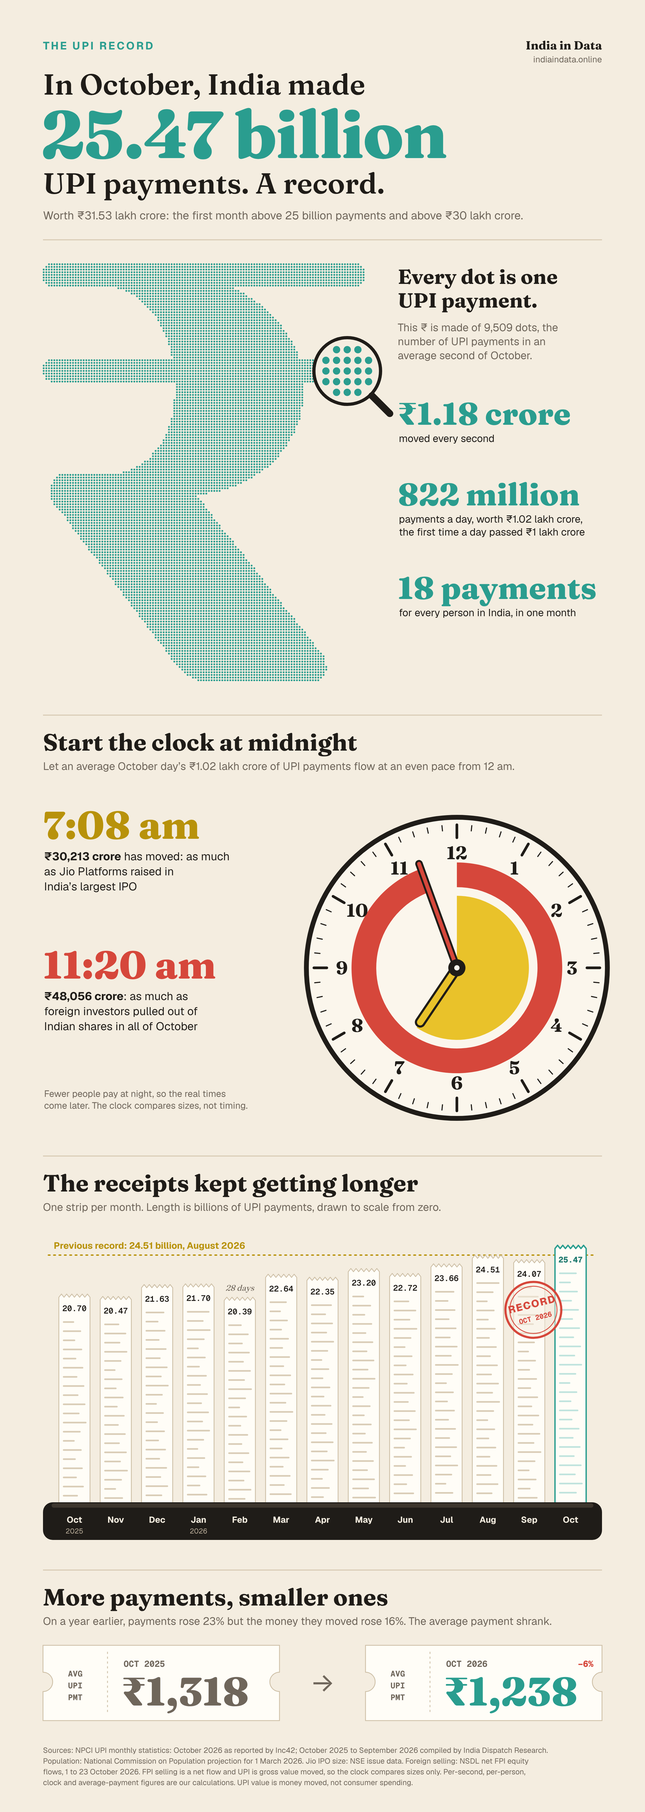
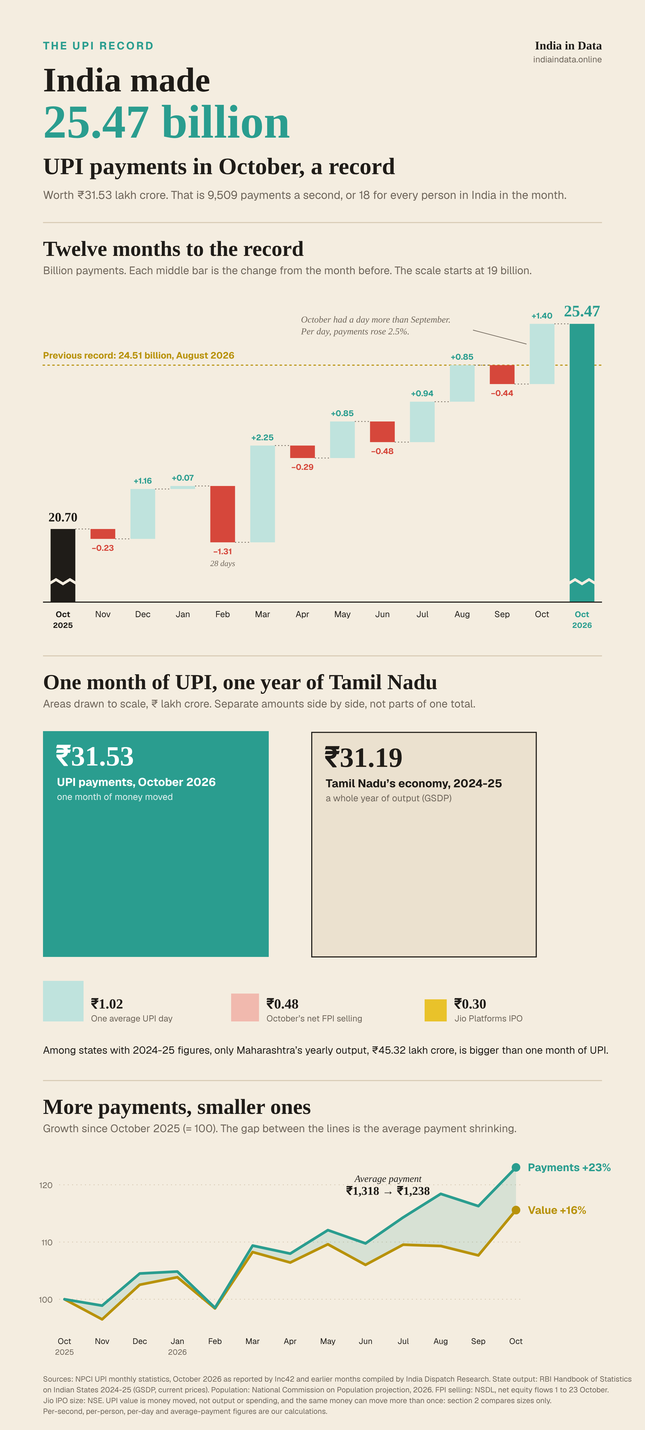
UPI infographic: editorial redesign with waterfall, Tamil Nadu scale squares and index lines
Claude-Session: https://claude.ai/code/session_014CgExXTmhYcHWAfTLX6LU2

Changed region(s): [[0.0625, 0.0, 0.9688, 0.9985], [0.8438, 0.0312, 0.9375, 0.0624]]

diff --git a/src/infographics/UpiRecord.jsx b/src/infographics/UpiRecord.jsx
@@ -1,238 +1,160 @@
 import { forwardRef } from 'react'
 import { UPI_MONTHS } from './upiRecordData.js'
-import { RUPEE_DOTS } from './upiRupeeDots.js'
 import { POP_INDIA, POP_YEARS } from '../data/population.js'
+import { GSDP_CURRENT, YEARS } from '../data/states.js'
 
-// House infographic style (warm paper, serif display), drawn with objects from UPI's own world:
-// a ₹ made of payments, a wall clock, and receipt strips feeding out of a payment printer.
+// Same editorial system as the FPI infographic: warm paper, serif display, one visual idea per section.
 const C = {
-  paper: '#f4ede0', ink: '#1f1c18', mute: '#6f665b', rule: '#d9ccb6', slip: '#fffdf7', slipEdge: '#cdbfa6',
-  teal: '#2a9d8f', tealDeep: '#1f7a6f', tealPale: '#bfe3dd', gold: '#e9c22a', goldDeep: '#b8920b', red: '#d6473b', face: '#fbf6ec',
+  paper: '#f4ede0', ink: '#1f1c18', mute: '#6f665b', rule: '#d9ccb6', cream: '#ebe1cf',
+  teal: '#2a9d8f', tealPale: '#bfe3dd', down: '#d6473b', gold: '#e9c22a', goldDeep: '#b8920b',
 }
-const SERIF = '"Fraunces Variable", Fraunces, Georgia, "Times New Roman", serif'
+const SERIF = 'Fraunces, Georgia, "Times New Roman", serif'
 const SANS = '"Geist Variable", "Helvetica Neue", Arial, sans-serif'
-const MONO = '"Geist Mono Variable", ui-monospace, Menlo, monospace'
 const n0 = (n) => Math.round(n).toLocaleString('en-IN')
+const sign = (v, d = 2) => `${v >= 0 ? '+' : '−'}${Math.abs(v).toFixed(d)}`
 
+const first = UPI_MONTHS[0]
 const last = UPI_MONTHS[UPI_MONTHS.length - 1]
-const yearAgo = UPI_MONTHS[0]
-const prevRecord = UPI_MONTHS.slice(0, -1).reduce((a, b) => (b.vol > a.vol ? b : a))
-const SECS = 31 * 86400
-const perSec = Math.round((last.vol * 1e9) / SECS) // 9,509
-const croreSec = (last.val * 1e5) / SECS // ₹ crore a second
-const DAY_CRORE = 101707 // October average daily value, ₹ crore (NPCI via Inc42)
-const pop2026 = POP_INDIA[POP_YEARS.indexOf(2026)] * 1000 // NCP projection, 1 March 2026
-const perPerson = Math.round((last.vol * 1e9) / pop2026)
-const growthVol = Math.round((last.vol / yearAgo.vol - 1) * 100)
-const growthVal = Math.round((last.val / yearAgo.val - 1) * 100)
+const prev = UPI_MONTHS[UPI_MONTHS.length - 2]
+const record = UPI_MONTHS.slice(0, -1).reduce((a, b) => (b.vol > a.vol ? b : a))
+const perSec = Math.round((last.vol * 1e9) / (31 * 86400))
+const perPerson = Math.round((last.vol * 1e9) / (POP_INDIA[POP_YEARS.indexOf(2026)] * 1000))
+const perDayGrowth = (822 / 802 - 1) * 100 // daily averages as reported (NPCI via Inc42): 822 mn in October, 802 mn in September
+const avgThen = Math.round((first.val * 1e12) / (first.vol * 1e9))
 const avgNow = Math.round((last.val * 1e12) / (last.vol * 1e9))
-const avgThen = Math.round((yearAgo.val * 1e12) / (yearAgo.vol * 1e9))
-const avgDrop = Math.round((1 - avgNow / avgThen) * 100)
 
-// The clock: an average October day's value, flowing evenly from midnight
-const JIO = 30213 // Jio Platforms IPO, ₹ crore (NSE issue data)
-const FPI = 48056 // net FPI selling of Indian shares, 1-23 October 2026, ₹ crore (NSDL)
-const clockTime = (crore) => {
-  const mins = Math.round((crore / DAY_CRORE) * 24 * 60)
-  return { mins, label: `${Math.floor(mins / 60)}:${String(mins % 60).padStart(2, '0')} am` }
-}
-const tJio = clockTime(JIO)
-const tFpi = clockTime(FPI)
-
-if (RUPEE_DOTS.count !== perSec) {
-  // The ₹ is built for this exact number; regenerate upiRupeeDots.js if the data change.
-  console.warn(`UPI infographic: ₹ has ${RUPEE_DOTS.count} dots but the per-second figure is ${perSec}`)
-}
+// Sizes compared in section 2, ₹ lakh crore
+const L = YEARS.length - 1
+const lc = (state) => GSDP_CURRENT[state][L] / 1e7
+const TN = lc('Tamil Nadu'), MH = lc('Maharashtra')
+const DAY = 1.01707 // October average daily UPI value (NPCI via Inc42)
+const FPI = 0.48056 // net FPI selling of Indian shares, 1-23 October 2026 (NSDL)
+const JIO = 0.30213 // Jio Platforms IPO (NSE)
 
 const UpiRecord = forwardRef(function UpiRecord(_, ref) {
-  // ---- the ₹ of dots ----
-  const gx = 80, gy = 488, P = RUPEE_DOTS.pitch
-  const rupeePath = RUPEE_DOTS.runs.map(([x, y, n]) => `M${(gx + x).toFixed(2)},${(gy + y).toFixed(2)}h${((n - 1) * P + P / 2).toFixed(2)}`).join('')
-  const lens = { x: gx + 566, y: gy + 202, r: 62, zoom: 4 }
-  const lensDots = []
-  for (let i = -4; i <= 4; i++) for (let j = -4; j <= 4; j++) {
-    const x = lens.x + i * P * lens.zoom, y = lens.y + j * P * lens.zoom
-    if (Math.hypot(x - lens.x, y - lens.y) < lens.r - 6) lensDots.push([x, y])
-  }
+  // ---- 1. waterfall: Oct 2025 total, twelve monthly changes, Oct 2026 total ----
+  const wf = [{ kind: 'total', label: 'Oct 2025', from: 19, to: first.vol }]
+  for (let i = 1; i < UPI_MONTHS.length; i++) wf.push({ kind: 'change', label: UPI_MONTHS[i].month.split(' ')[0], from: UPI_MONTHS[i - 1].vol, to: UPI_MONTHS[i].vol })
+  wf.push({ kind: 'total', label: 'Oct 2026', from: 19, to: last.vol, hero: true })
+  const slot = 1040 / wf.length, bw = 46, base = 1120, k = 80
+  const Y = (v) => base - (v - 19) * k
+  const bx = (i) => 80 + i * slot + (slot - bw) / 2
 
-  // ---- the clock ----
-  const cx = 850, cy = 1800, R = 280
-  const at = (r, mins) => { // position on a 12-hour face, minutes after midnight
-    const a = (mins / 720) * 2 * Math.PI
-    return [cx + r * Math.sin(a), cy - r * Math.cos(a)]
-  }
-  const wedge = (r, mins) => { const [x, y] = at(r, mins); return `M${cx},${cy} L${cx},${cy - r} A${r},${r} 0 ${mins > 360 ? 1 : 0} 1 ${x},${y} Z` }
-  const band = (r0, r1, mins) => {
-    const [ax, ay] = at(r1, mins), [bx, by] = at(r0, mins), big = mins > 360 ? 1 : 0
-    return `M${cx},${cy - r1} A${r1},${r1} 0 ${big} 1 ${ax},${ay} L${bx},${by} A${r0},${r0} 0 ${big} 0 ${cx},${cy - r0} Z`
-  }
+  // ---- 2. squares to scale ----
+  const s = 420 / Math.sqrt(last.val)
+  const side = (v) => Math.sqrt(v) * s
 
-  // ---- the receipt strips ----
-  const base = 2800, k = 19, sx0 = 100, slot = 1000 / UPI_MONTHS.length, sw = 58
-  const tooth = sw / 6
-  const strip = (x, top) => {
-    let d = `M${x},${base} L${x},${top + 6}`
-    for (let t = 0; t < 6; t++) d += ` L${x + t * tooth + tooth / 2},${top} L${x + (t + 1) * tooth},${top + 6}`
-    return `${d} L${x + sw},${base} Z`
-  }
+  // ---- 3. index lines, Oct 2025 = 100 ----
+  const ix0 = 120, ix1 = 960, iyB = 2470, iMin = 95, iMax = 126, ik = 330 / (iMax - iMin)
+  const IX = (i) => ix0 + (i * (ix1 - ix0)) / (UPI_MONTHS.length - 1)
+  const IY = (v) => iyB - (v - iMin) * ik
+  const vol = UPI_MONTHS.map((m) => (m.vol / first.vol) * 100)
+  const val = UPI_MONTHS.map((m) => (m.val / first.val) * 100)
+  const pts = (arr) => arr.map((v, i) => `${IX(i).toFixed(1)},${IY(v).toFixed(1)}`)
+  const gap = `${pts(vol).join(' ')} ${pts(val).reverse().join(' ')}`
 
-  const H = 3370
+  const H = 2660
   return (
     <svg ref={ref} viewBox={`0 0 1200 ${H}`} xmlns="http://www.w3.org/2000/svg" role="img"
-      aria-label={`India made ${last.vol} billion UPI payments worth ₹${last.val} lakh crore in October 2026, a record. That is ${n0(perSec)} payments in an average second. At October's pace UPI moves as much money as the Jio Platforms IPO by ${tJio.label} and as much as October's foreign selling of Indian shares by ${tFpi.label}.`}
+      aria-label={`India made ${last.vol} billion UPI payments worth ₹${last.val} lakh crore in October 2026, a record. In one month UPI moved more money than Tamil Nadu's economy produces in a year (₹${TN.toFixed(2)} lakh crore in 2024-25). Payments grew 23% in a year and value 16%, so the average payment fell from ₹${n0(avgThen)} to ₹${n0(avgNow)}.`}
       style={{ width: '100%', height: 'auto', display: 'block' }}>
-      <defs>
-        <clipPath id="upiLens"><circle cx={lens.x} cy={lens.y} r={lens.r - 4} /></clipPath>
-      </defs>
       <rect width="1200" height={H} fill={C.paper} />
 
       {/* title */}
       <text x="80" y="92" fontFamily={SANS} fontSize="20" fontWeight="700" letterSpacing="3" fill={C.teal}>THE UPI RECORD</text>
       <text x="1120" y="92" textAnchor="end" fontFamily={SERIF} fontSize="22" fontWeight="700" fill={C.ink}>India in Data</text>
       <text x="1120" y="116" textAnchor="end" fontFamily={SANS} fontSize="16" fill={C.mute}>indiaindata.online</text>
-      <text x="80" y="176" fontFamily={SERIF} fontSize="54" fontWeight="600" fill={C.ink}>In October, India made</text>
-      <text x="76" y="294" fontFamily={SERIF} fontSize="124" fontWeight="800" letterSpacing="-2" fill={C.teal}>{last.vol} billion</text>
-      <text x="80" y="360" fontFamily={SERIF} fontSize="54" fontWeight="600" fill={C.ink}>UPI payments. A record.</text>
-      <text x="80" y="408" fontFamily={SANS} fontSize="21" fill={C.mute}>Worth ₹{last.val} lakh crore: the first month above 25 billion payments and above ₹30 lakh crore.</text>
+      <text x="80" y="170" fontFamily={SERIF} fontSize="64" fontWeight="700" fill={C.ink}>India made</text>
+      <text x="80" y="256" fontFamily={SERIF} fontSize="88" fontWeight="800" fill={C.teal}>25.47 billion</text>
+      <text x="80" y="324" fontFamily={SERIF} fontSize="44" fontWeight="600" fill={C.ink}>UPI payments in October, a record</text>
+      <text x="80" y="370" fontFamily={SANS} fontSize="21" fill={C.mute}>Worth ₹{last.val} lakh crore. That is {n0(perSec)} payments a second, or {perPerson} for every person in India in the month.</text>
 
-      {/* ₹ made of one second of payments */}
-      <line x1="80" x2="1120" y1="446" y2="446" stroke={C.rule} strokeWidth="2" />
-      <path d={rupeePath} fill="none" stroke={C.teal} strokeWidth="3.4" strokeLinecap="round" strokeDasharray={`0 ${P}`} />
-      <circle cx={lens.x} cy={lens.y} r={lens.r} fill={C.paper} />
-      <g clipPath="url(#upiLens)">
-        {lensDots.map(([x, y], i) => <circle key={i} cx={x} cy={y} r={6.8} fill={C.teal} />)}
-      </g>
-      <circle cx={lens.x} cy={lens.y} r={lens.r} fill="none" stroke={C.ink} strokeWidth="6" />
-      <line x1={lens.x + (lens.r + 3) * 0.707} y1={lens.y + (lens.r + 3) * 0.707} x2={lens.x + (lens.r + 50) * 0.707} y2={lens.y + (lens.r + 50) * 0.707} stroke={C.ink} strokeWidth="13" strokeLinecap="round" />
-
-      <text x="740" y="528" fontFamily={SERIF} fontSize="38" fontWeight="700" fill={C.ink}>Every dot is one</text>
-      <text x="740" y="572" fontFamily={SERIF} fontSize="38" fontWeight="700" fill={C.ink}>UPI payment.</text>
-      <g fontFamily={SANS} fontSize="20" fill={C.mute}>
-        <text x="740" y="616">This ₹ is made of {n0(perSec)} dots, the</text>
-        <text x="740" y="642">number of UPI payments in an</text>
-        <text x="740" y="668">average second of October.</text>
-      </g>
-      <g>
-        <text x="740" y="790" fontFamily={SERIF} fontSize="58" fontWeight="800" fill={C.teal}>₹{croreSec.toFixed(2)} crore</text>
-        <text x="742" y="822" fontFamily={SANS} fontSize="19" fill={C.ink}>moved every second</text>
-        <text x="740" y="940" fontFamily={SERIF} fontSize="58" fontWeight="800" fill={C.teal}>822 million</text>
-        <text x="742" y="972" fontFamily={SANS} fontSize="19" fill={C.ink}>payments a day, worth ₹1.02 lakh crore,</text>
-        <text x="742" y="996" fontFamily={SANS} fontSize="19" fill={C.ink}>the first time a day passed ₹1 lakh crore</text>
-        <text x="740" y="1114" fontFamily={SERIF} fontSize="58" fontWeight="800" fill={C.teal}>{perPerson} payments</text>
-        <text x="742" y="1146" fontFamily={SANS} fontSize="19" fill={C.ink}>for every person in India, in one month</text>
-      </g>
-
-      {/* the clock */}
-      <line x1="80" x2="1120" y1="1330" y2="1330" stroke={C.rule} strokeWidth="2" />
-      <text x="80" y="1396" fontFamily={SERIF} fontSize="44" fontWeight="700" fill={C.ink}>Start the clock at midnight</text>
-      <text x="80" y="1432" fontFamily={SANS} fontSize="20" fill={C.mute}>Let an average October day’s ₹1.02 lakh crore of UPI payments flow at an even pace from 12 am.</text>
-
-      <circle cx={cx} cy={cy} r={R} fill={C.face} stroke={C.ink} strokeWidth="9" />
-      <path d={band(150, 196, tFpi.mins)} fill={C.red} />
-      <path d={wedge(134, tJio.mins)} fill={C.gold} />
-      {Array.from({ length: 60 }, (_, m) => {
-        const hour = m % 5 === 0
-        const [x1, y1] = at(R - 14, m * 12), [x2, y2] = at(hour ? R - 38 : R - 24, m * 12)
-        return <line key={m} x1={x1} y1={y1} x2={x2} y2={y2} stroke={C.ink} strokeWidth={hour ? 5 : 2} strokeLinecap="round" />
-      })}
-      {Array.from({ length: 12 }, (_, h) => {
-        const [x, y] = at(R - 66, h * 60)
-        return <text key={h} x={x} y={y + 12} textAnchor="middle" fontFamily={SERIF} fontSize="34" fontWeight="700" fill={C.ink}>{h === 0 ? 12 : h}</text>
-      })}
-      {(() => {
-        const [jx, jy] = at(122, tJio.mins), [fx, fy] = at(206, tFpi.mins)
+      {/* 1. waterfall */}
+      <line x1="80" x2="1120" y1="414" y2="414" stroke={C.rule} strokeWidth="2" />
+      <text x="80" y="476" fontFamily={SERIF} fontSize="40" fontWeight="700" fill={C.ink}>Twelve months to the record</text>
+      <text x="80" y="510" fontFamily={SANS} fontSize="20" fill={C.mute}>Billion payments. Each middle bar is the change from the month before. The scale starts at 19 billion.</text>
+      <line x1="80" x2="1120" y1={Y(record.vol)} y2={Y(record.vol)} stroke={C.goldDeep} strokeWidth="2" strokeDasharray="3 6" strokeLinecap="round" />
+      <text x="80" y={Y(record.vol) - 12} fontFamily={SANS} fontSize="17" fontWeight="700" fill={C.goldDeep}>Previous record: {record.vol} billion, August 2026</text>
+      <text x="560" y="600" fontFamily={SERIF} fontStyle="italic" fontSize="17" fill={C.mute}>October had a day more than September.</text>
+      <text x="560" y="622" fontFamily={SERIF} fontStyle="italic" fontSize="17" fill={C.mute}>Per day, payments rose {perDayGrowth.toFixed(1)}%.</text>
+      <line x1="880" x2={bx(12) - 6} y1="614" y2="640" stroke={C.mute} strokeWidth="1.2" />
+      {wf.map((b, i) => {
+        const x = bx(i)
+        const up = b.to >= b.from
+        const top = Y(Math.max(b.from, b.to)), bot = Y(Math.min(b.from, b.to))
+        const fill = b.kind === 'total' ? (b.hero ? C.teal : C.ink) : up ? C.tealPale : C.down
+        const next = wf[i + 1]
         return (
-          <g strokeLinecap="round">
-            <line x1={cx} y1={cy} x2={fx} y2={fy} stroke={C.ink} strokeWidth="14" />
-            <line x1={cx} y1={cy} x2={fx} y2={fy} stroke={C.red} strokeWidth="7" />
-            <line x1={cx} y1={cy} x2={jx} y2={jy} stroke={C.ink} strokeWidth="20" />
-            <line x1={cx} y1={cy} x2={jx} y2={jy} stroke={C.gold} strokeWidth="12" />
-            <circle cx={cx} cy={cy} r="16" fill={C.ink} />
-            <circle cx={cx} cy={cy} r="5" fill={C.face} />
-          </g>
-        )
-      })()}
-
-      <text x="80" y="1560" fontFamily={SERIF} fontSize="72" fontWeight="800" fill={C.goldDeep}>{tJio.label}</text>
-      <g fontFamily={SANS} fontSize="21" fill={C.ink}>
-        <text x="82" y="1600"><tspan fontWeight="700">₹{n0(JIO)} crore</tspan> has moved: as much</text>
-        <text x="82" y="1628">as Jio Platforms raised in</text>
-        <text x="82" y="1656">India’s largest IPO</text>
-      </g>
-      <text x="80" y="1820" fontFamily={SERIF} fontSize="72" fontWeight="800" fill={C.red}>{tFpi.label}</text>
-      <g fontFamily={SANS} fontSize="21" fill={C.ink}>
-        <text x="82" y="1860"><tspan fontWeight="700">₹{n0(FPI)} crore</tspan>: as much as</text>
-        <text x="82" y="1888">foreign investors pulled out of</text>
-        <text x="82" y="1916">Indian shares in all of October</text>
-      </g>
-      <g fontFamily={SANS} fontSize="17" fill={C.mute}>
-        <text x="82" y="2040">Fewer people pay at night, so the real times</text>
-        <text x="82" y="2062">come later. The clock compares sizes, not timing.</text>
-      </g>
-
-      {/* receipt strips */}
-      <line x1="80" x2="1120" y1="2150" y2="2150" stroke={C.rule} strokeWidth="2" />
-      <text x="80" y="2216" fontFamily={SERIF} fontSize="44" fontWeight="700" fill={C.ink}>The receipts kept getting longer</text>
-      <text x="80" y="2252" fontFamily={SANS} fontSize="20" fill={C.mute}>One strip per month. Length is billions of UPI payments, drawn to scale from zero.</text>
-      <line x1="90" x2="1110" y1={base - prevRecord.vol * k} y2={base - prevRecord.vol * k} stroke={C.goldDeep} strokeWidth="2.5" strokeDasharray="3 7" strokeLinecap="round" />
-      <text x="100" y={base - prevRecord.vol * k - 12} fontFamily={SANS} fontSize="17" fontWeight="700" fill={C.goldDeep}>Previous record: {prevRecord.vol} billion, August 2026</text>
-      {UPI_MONTHS.map((m, i) => {
-        const x = sx0 + i * slot + (slot - sw) / 2
-        const top = base - m.vol * k
-        const hero = i === UPI_MONTHS.length - 1
-        const lines = []
-        for (let y = top + 52, j = 0; y < base - 10; y += 17, j++) lines.push([y, 18 + ((i * 7 + j * 13) % 24)])
-        return (
-          <g key={m.month}>
-            <path d={strip(x, top)} fill={C.slip} stroke={hero ? C.teal : C.slipEdge} strokeWidth={hero ? 2.5 : 1.5} strokeLinejoin="round" />
-            {lines.map(([y, w]) => <line key={y} x1={x + 9} x2={x + 9 + w} y1={y} y2={y} stroke={hero ? C.tealPale : C.rule} strokeWidth="3" strokeLinecap="round" />)}
-            <text x={x + sw / 2} y={top + 32} textAnchor="middle" fontFamily={MONO} fontSize="15" fontWeight={hero ? 800 : 600} fill={hero ? C.tealDeep : C.ink}>{m.vol.toFixed(2)}</text>
-            {m.month.startsWith('Feb') && <text x={x + sw / 2} y={top - 12} textAnchor="middle" fontFamily={SERIF} fontStyle="italic" fontSize="15" fill={C.mute}>28 days</text>}
+          <g key={i}>
+            <rect x={x} y={top} width={bw} height={Math.max(2, bot - top)} fill={fill} />
+            {b.kind === 'total' && <path d={`M${x - 3},${base - 34} l${bw / 4 + 1.5},-8 l${bw / 4 + 1.5},8 l${bw / 4 + 1.5},-8 l${bw / 4 + 1.5},8`} fill="none" stroke={C.paper} strokeWidth="5" />}
+            {next && <line x1={x + bw} x2={bx(i + 1)} y1={Y(b.to)} y2={Y(b.to)} stroke={C.mute} strokeWidth="1.5" strokeDasharray="2 4" />}
+            {b.kind === 'total'
+              ? <text x={x + bw / 2} y={top - 14} textAnchor="middle" fontFamily={SERIF} fontSize={b.hero ? 30 : 24} fontWeight="800" fill={b.hero ? C.teal : C.ink}>{b.to.toFixed(2)}</text>
+              : <text x={x + bw / 2} y={up ? top - 10 : bot + 22} textAnchor="middle" fontFamily={SANS} fontSize="15" fontWeight="700" fill={up ? C.teal : C.down}>{sign(b.to - b.from)}</text>}
+            <text x={x + bw / 2} y={base + 28} textAnchor="middle" fontFamily={SANS} fontSize={b.kind === 'total' ? 15 : 16} fontWeight={b.kind === 'total' ? 700 : 400} fill={b.hero ? C.teal : C.ink}>{b.kind === 'total' ? b.label.split(' ')[0] : b.label}</text>
+            {b.kind === 'total' && <text x={x + bw / 2} y={base + 48} textAnchor="middle" fontFamily={SANS} fontSize="14" fontWeight="700" fill={b.hero ? C.teal : C.ink}>{b.label.split(' ')[1]}</text>}
+            {b.label === 'Feb' && <text x={x + bw / 2} y={bot + 44} textAnchor="middle" fontFamily={SERIF} fontStyle="italic" fontSize="15" fill={C.mute}>28 days</text>}
           </g>
         )
       })}
-      <g transform={`rotate(-14 ${sx0 + 11.6 * slot} ${base - last.vol * k + 120})`}>
-        <circle cx={sx0 + 11.6 * slot} cy={base - last.vol * k + 120} r="52" fill={C.paper} fillOpacity="0.55" stroke={C.red} strokeWidth="4" />
-        <circle cx={sx0 + 11.6 * slot} cy={base - last.vol * k + 120} r="44" fill="none" stroke={C.red} strokeWidth="1.5" />
-        <text x={sx0 + 11.6 * slot} y={base - last.vol * k + 116} textAnchor="middle" fontFamily={SANS} fontSize="19" fontWeight="800" letterSpacing="1.5" fill={C.red}>RECORD</text>
-        <text x={sx0 + 11.6 * slot} y={base - last.vol * k + 140} textAnchor="middle" fontFamily={MONO} fontSize="13" fontWeight="700" fill={C.red}>OCT 2026</text>
-      </g>
-      <rect x="80" y={base - 6} width="1040" height="70" rx="18" fill={C.ink} />
-      <rect x="96" y={base - 4} width="1008" height="8" rx="4" fill="#3d362e" />
-      {UPI_MONTHS.map((m, i) => {
-        const [mo, yr] = m.month.split(' ')
-        const x = sx0 + i * slot + slot / 2
-        return (
-          <g key={m.month}>
-            <text x={x} y={base + 32} textAnchor="middle" fontFamily={SANS} fontSize="16" fontWeight="700" fill={C.paper}>{mo}</text>
-            {(i === 0 || mo === 'Jan') && <text x={x} y={base + 52} textAnchor="middle" fontFamily={SANS} fontSize="13" fill="#b9ad9a">{yr}</text>}
-          </g>
-        )
-      })}
+      <line x1="80" x2="1120" y1={base} y2={base} stroke={C.ink} strokeWidth="2" />
 
-      {/* smaller payments */}
-      <line x1="80" x2="1120" y1="2920" y2="2920" stroke={C.rule} strokeWidth="2" />
-      <text x="80" y="2986" fontFamily={SERIF} fontSize="44" fontWeight="700" fill={C.ink}>More payments, smaller ones</text>
-      <text x="80" y="3022" fontFamily={SANS} fontSize="20" fill={C.mute}>On a year earlier, payments rose {growthVol}% but the money they moved rose {growthVal}%. The average payment shrank.</text>
-      {[[80, 'OCT 2025', avgThen, C.mute], [680, 'OCT 2026', avgNow, C.teal]].map(([x, lab, v, col]) => (
-        <g key={lab}>
-          <path d={`M${x},3060 h440 v50 a18,18 0 0 0 0,36 v54 h-440 v-54 a18,18 0 0 0 0,-36 Z`} fill={C.slip} stroke={C.slipEdge} strokeWidth="1.5" />
-          <line x1={x + 120} x2={x + 120} y1="3072" y2="3188" stroke={C.slipEdge} strokeWidth="1.5" strokeDasharray="4 5" />
-          <text x={x + 60} y="3118" textAnchor="middle" fontFamily={MONO} fontSize="15" fontWeight="700" fill={C.mute}>AVG</text>
-          <text x={x + 60} y="3140" textAnchor="middle" fontFamily={MONO} fontSize="15" fontWeight="700" fill={C.mute}>UPI</text>
-          <text x={x + 60} y="3162" textAnchor="middle" fontFamily={MONO} fontSize="15" fontWeight="700" fill={C.mute}>PMT</text>
-          <text x={x + 150} y="3100" fontFamily={MONO} fontSize="16" fontWeight="700" fill={C.mute}>{lab}</text>
-          <text x={x + 146} y="3172" fontFamily={SERIF} fontSize="74" fontWeight="800" fill={col}>₹{n0(v)}</text>
+      {/* 2. squares to scale */}
+      <line x1="80" x2="1120" y1="1220" y2="1220" stroke={C.rule} strokeWidth="2" />
+      <text x="80" y="1282" fontFamily={SERIF} fontSize="40" fontWeight="700" fill={C.ink}>One month of UPI, one year of Tamil Nadu</text>
+      <text x="80" y="1316" fontFamily={SANS} fontSize="20" fill={C.mute}>Areas drawn to scale, ₹ lakh crore. Separate amounts side by side, not parts of one total.</text>
+      <rect x="80" y={1780 - side(last.val)} width={side(last.val)} height={side(last.val)} fill={C.teal} />
+      <text x="104" y={1780 - side(last.val) + 64} fontFamily={SERIF} fontSize="52" fontWeight="800" fill="#fff">₹{last.val}</text>
+      <text x="106" y={1780 - side(last.val) + 102} fontFamily={SANS} fontSize="21" fontWeight="700" fill="#fff">UPI payments, October 2026</text>
+      <text x="106" y={1780 - side(last.val) + 128} fontFamily={SANS} fontSize="17" fill="#fff" opacity="0.85">one month of money moved</text>
+      <rect x="580" y={1780 - side(TN)} width={side(TN)} height={side(TN)} fill={C.cream} stroke={C.ink} strokeWidth="2" />
+      <text x="604" y={1780 - side(TN) + 64} fontFamily={SERIF} fontSize="52" fontWeight="800" fill={C.ink}>₹{TN.toFixed(2)}</text>
+      <text x="606" y={1780 - side(TN) + 102} fontFamily={SANS} fontSize="21" fontWeight="700" fill={C.ink}>Tamil Nadu’s economy, {YEARS[L]}</text>
+      <text x="606" y={1780 - side(TN) + 128} fontFamily={SANS} fontSize="17" fill={C.mute}>a whole year of output (GSDP)</text>
+      {[[80, DAY, 'One average UPI day', C.tealPale], [430, FPI, 'October’s net FPI selling', '#f1b9ae'], [790, JIO, 'Jio Platforms IPO', C.gold]].map(([x, v, label, fill]) => (
+        <g key={label}>
+          <rect x={x} y={1900 - side(v)} width={side(v)} height={side(v)} fill={fill} />
+          <text x={x + side(v) + 14} y={1876} fontFamily={SERIF} fontSize="26" fontWeight="800" fill={C.ink}>₹{v.toFixed(2)}</text>
+          <text x={x + side(v) + 14} y={1900} fontFamily={SANS} fontSize="16" fill={C.mute}>{label}</text>
         </g>
       ))}
-      <text x="600" y="3146" textAnchor="middle" fontFamily={SANS} fontSize="48" fill={C.mute}>→</text>
-      <text x="1104" y="3100" textAnchor="end" fontFamily={MONO} fontSize="16" fontWeight="800" fill={C.red}>−{avgDrop}%</text>
+      <text x="80" y="1960" fontFamily={SANS} fontSize="19" fill={C.ink}>Among states with {YEARS[L]} figures, only Maharashtra’s yearly output, ₹{MH.toFixed(2)} lakh crore, is bigger than one month of UPI.</text>
+
+      {/* 3. index lines */}
+      <line x1="80" x2="1120" y1="2010" y2="2010" stroke={C.rule} strokeWidth="2" />
+      <text x="80" y="2072" fontFamily={SERIF} fontSize="40" fontWeight="700" fill={C.ink}>More payments, smaller ones</text>
+      <text x="80" y="2106" fontFamily={SANS} fontSize="20" fill={C.mute}>Growth since October 2025 (= 100). The gap between the lines is the average payment shrinking.</text>
+      {[100, 110, 120].map((v) => (
+        <g key={v}>
+          <line x1={ix0 - 10} x2={ix1 + 10} y1={IY(v)} y2={IY(v)} stroke={C.rule} strokeWidth="1.5" strokeDasharray="2 6" />
+          <text x={ix0 - 22} y={IY(v) + 6} textAnchor="end" fontFamily={SANS} fontSize="15" fill={C.mute}>{v}</text>
+        </g>
+      ))}
+      <polygon points={gap} fill={C.teal} opacity="0.14" />
+      <polyline points={pts(val).join(' ')} fill="none" stroke={C.goldDeep} strokeWidth="5" strokeLinejoin="round" strokeLinecap="round" />
+      <polyline points={pts(vol).join(' ')} fill="none" stroke={C.teal} strokeWidth="5" strokeLinejoin="round" strokeLinecap="round" />
+      <circle cx={IX(12)} cy={IY(vol[12])} r="8" fill={C.teal} />
+      <circle cx={IX(12)} cy={IY(val[12])} r="8" fill={C.goldDeep} />
+      <text x={ix1 + 22} y={IY(vol[12]) + 7} fontFamily={SANS} fontSize="20" fontWeight="700" fill={C.teal}>Payments +23%</text>
+      <text x={ix1 + 22} y={IY(val[12]) + 7} fontFamily={SANS} fontSize="20" fontWeight="700" fill={C.goldDeep}>Value +16%</text>
+      <text x={IX(8.6)} y={IY(120.5)} textAnchor="middle" fontFamily={SERIF} fontStyle="italic" fontSize="18" fill={C.ink}>Average payment</text>
+      <text x={IX(8.6)} y={IY(120.5) + 24} textAnchor="middle" fontFamily={SERIF} fontSize="22" fontWeight="800" fill={C.ink}>₹{n0(avgThen)} → ₹{n0(avgNow)}</text>
+      {UPI_MONTHS.map((m, i) => {
+        const [mo, yr] = m.month.split(' ')
+        return (
+          <g key={m.month}>
+            <text x={IX(i)} y={iyB + 30} textAnchor="middle" fontFamily={SANS} fontSize="15" fill={C.ink}>{mo}</text>
+            {(i === 0 || mo === 'Jan') && <text x={IX(i)} y={iyB + 50} textAnchor="middle" fontFamily={SANS} fontSize="14" fill={C.mute}>{yr}</text>}
+          </g>
+        )
+      })}
 
       <g fontFamily={SANS} fontSize="14" fill={C.mute}>
-        <text x="80" y="3260">Sources: NPCI UPI monthly statistics: October 2026 as reported by Inc42; October 2025 to September 2026 compiled by India Dispatch Research.</text>
-        <text x="80" y="3280">Population: National Commission on Population projection for 1 March 2026. Jio IPO size: NSE issue data. Foreign selling: NSDL net FPI equity</text>
-        <text x="80" y="3300">flows, 1 to 23 October 2026. FPI selling is a net flow and UPI is gross value moved, so the clock compares sizes only. Per-second, per-person,</text>
-        <text x="80" y="3320">clock and average-payment figures are our calculations. UPI value is money moved, not consumer spending.</text>
+        <text x="80" y="2570">Sources: NPCI UPI monthly statistics, October 2026 as reported by Inc42 and earlier months compiled by India Dispatch Research. State output: RBI Handbook of Statistics</text>
+        <text x="80" y="2590">on Indian States 2024-25 (GSDP, current prices). Population: National Commission on Population projection, 2026. FPI selling: NSDL, net equity flows 1 to 23 October.</text>
+        <text x="80" y="2610">Jio IPO size: NSE. UPI value is money moved, not output or spending, and the same money can move more than once: section 2 compares sizes only.</text>
+        <text x="80" y="2630">Per-second, per-person, per-day and average-payment figures are our calculations.</text>
       </g>
     </svg>
   )

diff --git a/src/infographics/registry.js b/src/infographics/registry.js
@@ -18,7 +18,7 @@ export const INFOGRAPHICS = [
     related: { to: '/article/upi-record-october-2026', label: 'Read the story: UPI’s record October' },
     table: { head: ['Month', 'Payments (billion)', 'Value (₹ lakh crore)'], rows: UPI_MONTHS.map((m) => [m.month, m.vol.toFixed(2), m.val.toFixed(2)]) },
     summary:
-      'UPI processed 25.47 billion payments worth ₹31.53 lakh crore in October 2026, the first month above 25 billion payments and above ₹30 lakh crore. Against October 2025, payments rose 23% and value 16%, so the average payment fell from about ₹1,318 to about ₹1,238. The previous volume record was 24.51 billion in August 2026. That is 9,509 payments in an average second, about 18 for every person in India in the month. If an average October day’s ₹1.02 lakh crore flowed evenly from midnight, UPI would have moved as much as the Jio Platforms IPO raised (₹30,213 crore) by 7:08 am, and as much as foreign investors pulled out of Indian shares in October (₹48,056 crore) by 11:20 am.',
+      'UPI processed 25.47 billion payments worth ₹31.53 lakh crore in October 2026, the first month above 25 billion payments and above ₹30 lakh crore. The previous volume record was 24.51 billion in August 2026. In one month, UPI moved slightly more money than Tamil Nadu’s economy produced in all of 2024-25 (₹31.19 lakh crore of GSDP); among states with 2024-25 figures, only Maharashtra’s output (₹45.32 lakh crore) was larger. Against October 2025, payments rose 23% and value 16%, so the average payment fell from about ₹1,318 to about ₹1,238.',
   },
   {
     slug: 'fpi-selloff-october-2026',
